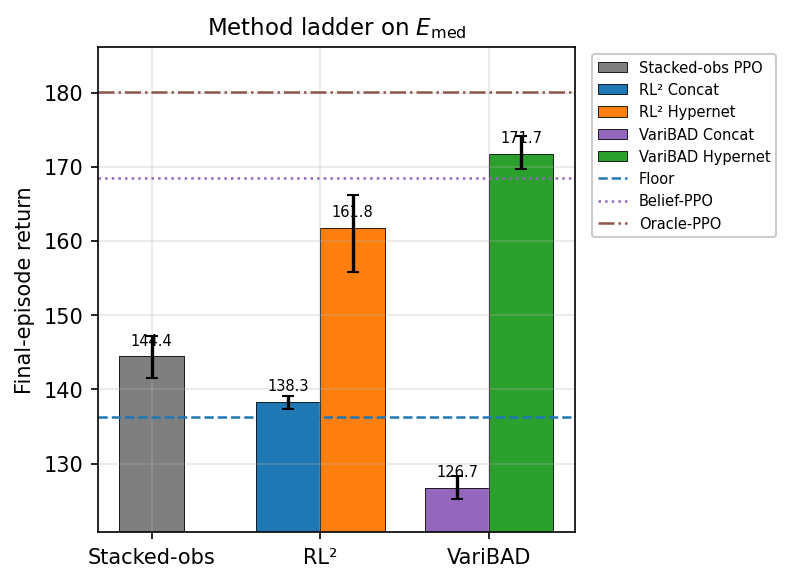
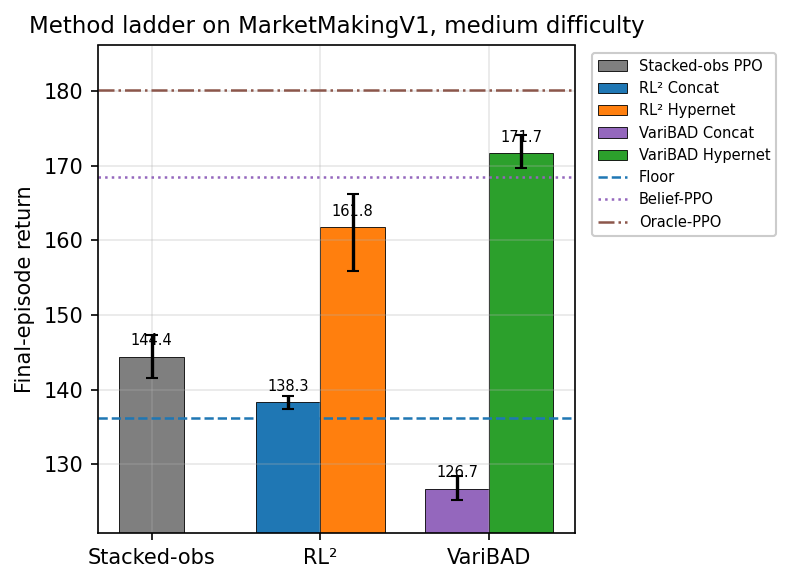
Method-ladder figure: title now says 'MarketMakingV1, medium difficulty'

diff --git a/plotting/m5r_plots.py b/plotting/m5r_plots.py
@@ -225,7 +225,7 @@ def plot_method_ladder(out_path: Path) -> None:
     env_block = data["per_env"]["e_final"]
     fig, ax = plt.subplots(figsize=FIGSIZE_STANDARD)
     _ladder_bars(ax, env_block, env_label="e_final", stacked_data=stacked)
-    ax.set_title("Method ladder on $E_{\\mathrm{med}}$")
+    ax.set_title("Method ladder on MarketMakingV1, medium difficulty")
     ax.set_ylabel("Final-episode return")
     ref_handles, ref_labels = ax.get_legend_handles_labels()
     ax.legend(
